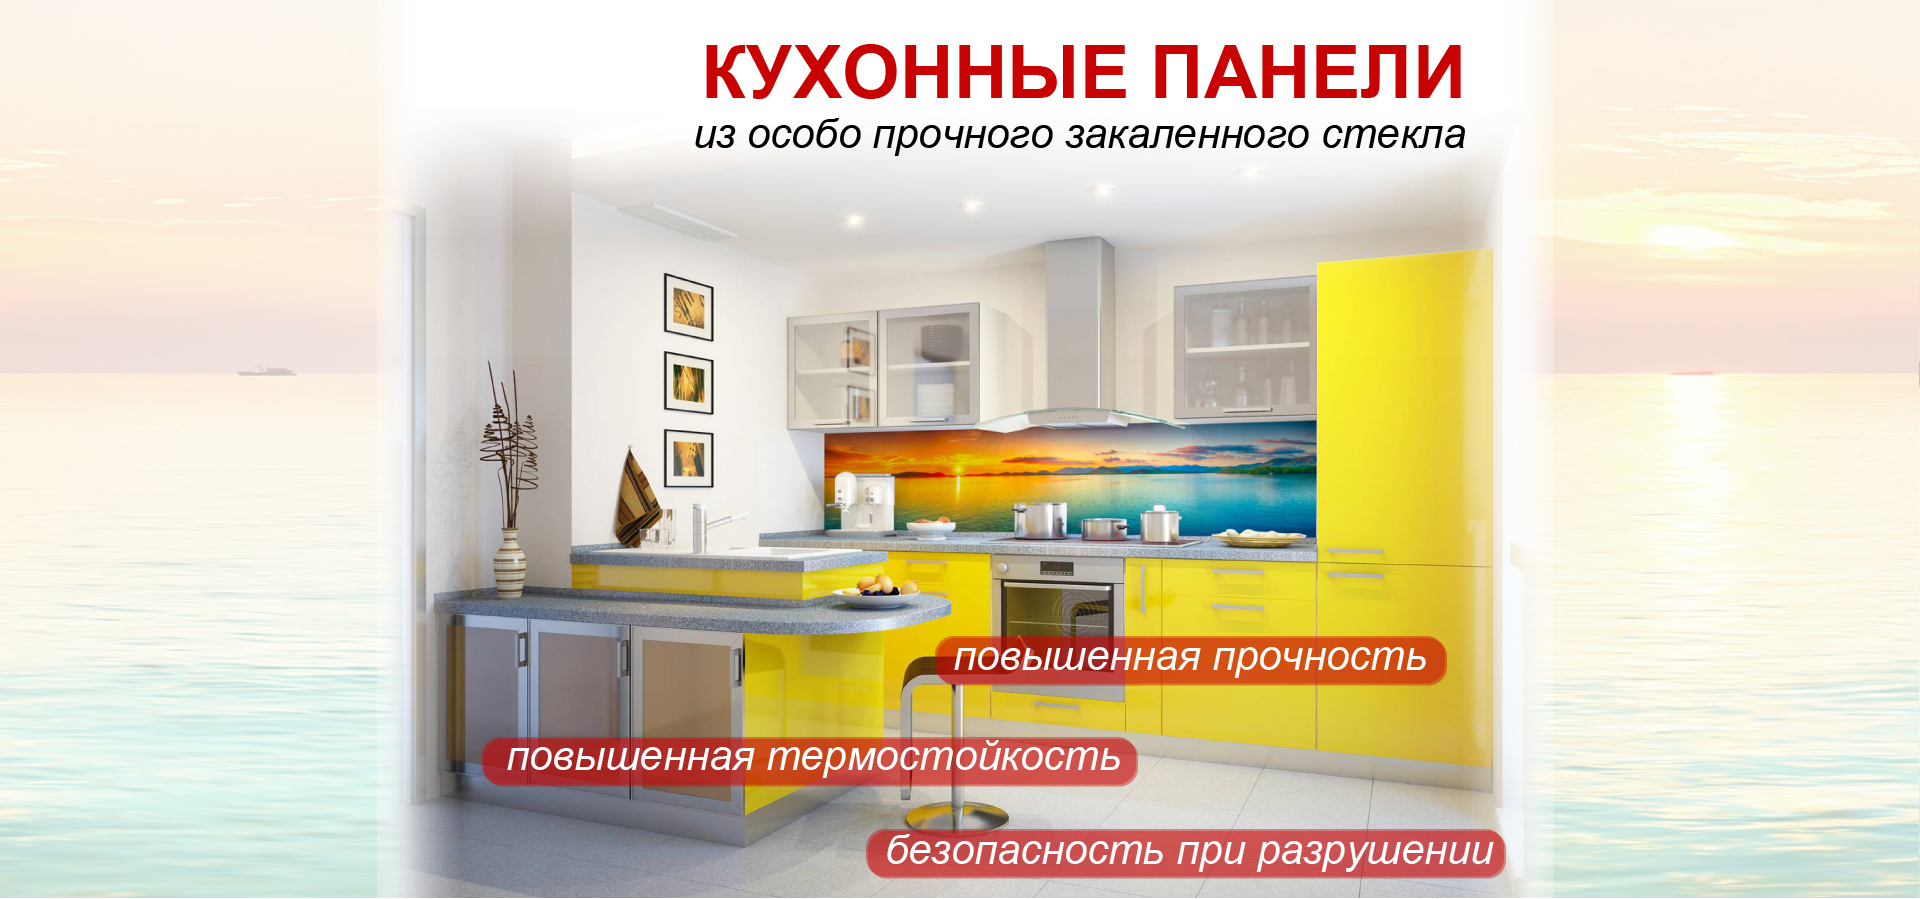
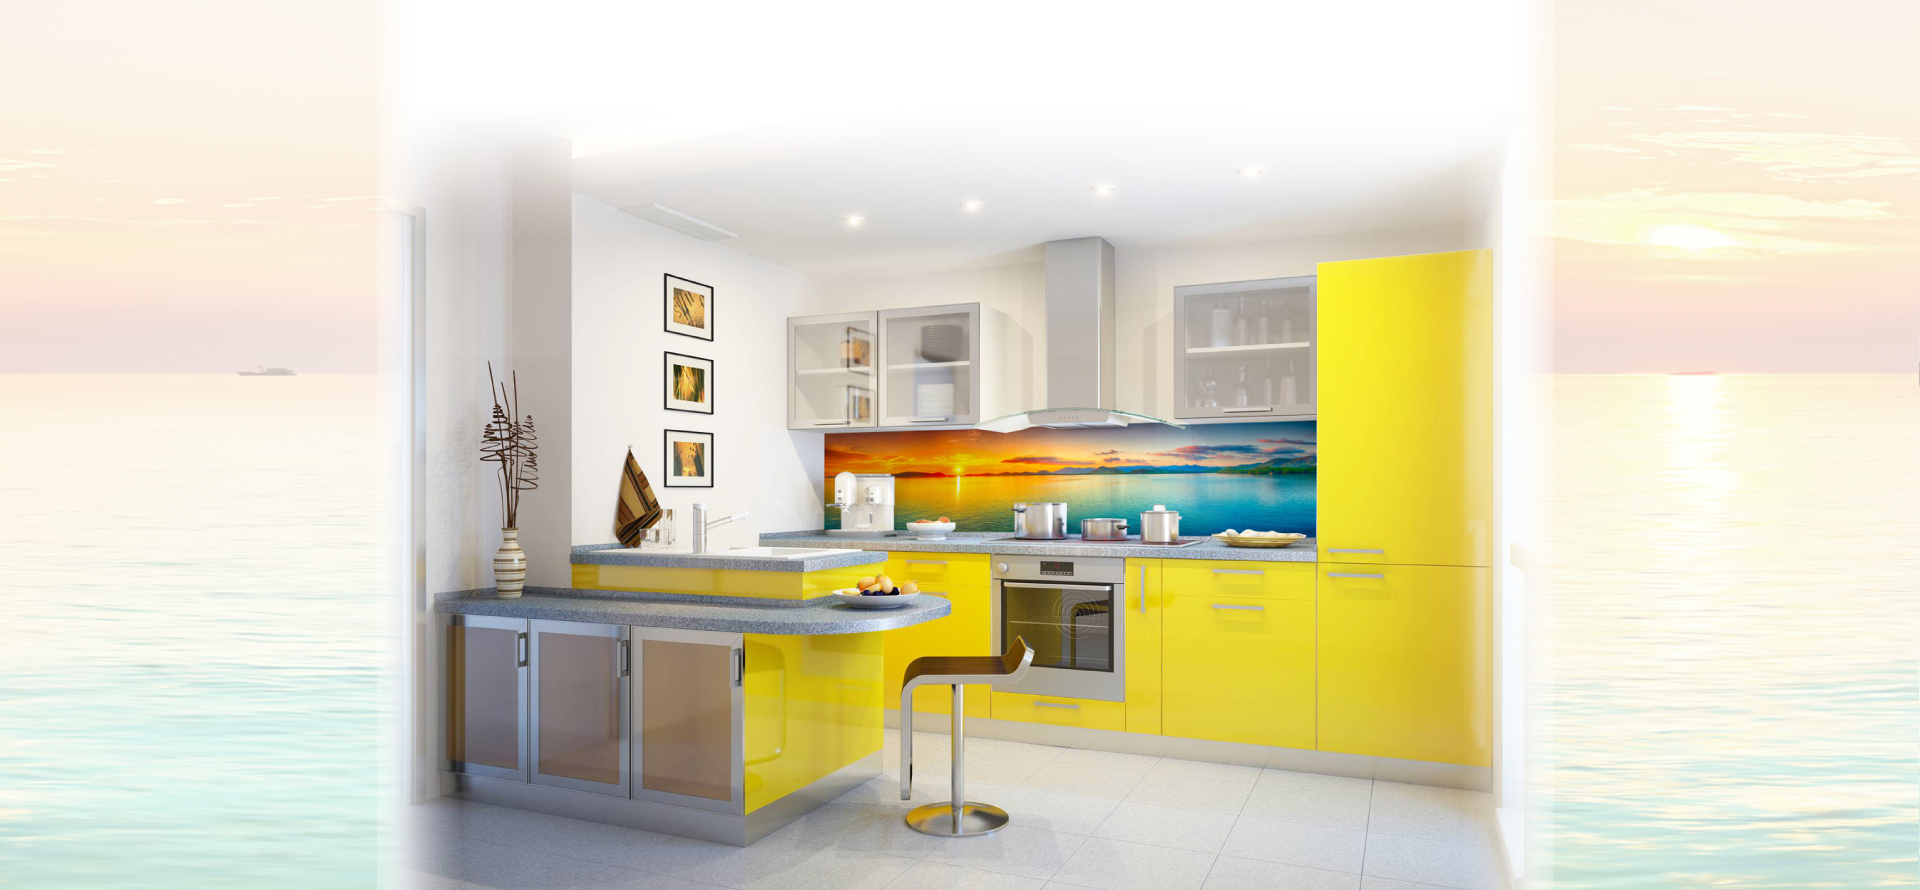
fix(panels): replace image with text blocks

diff --git a/stylesheets/stylesheet.css b/stylesheets/stylesheet.css
@@ -491,6 +491,78 @@ section#instagram {
     margin-bottom: 30px;
 }
 
+section#panels {
+    text-transform: uppercase;
+}
+
+#panels-title {
+    width: 310px;
+    position: absolute;
+    top: 10px;
+    right: 10px;
+}
+
+#panels-title-l1,  #panels-title-l2 {
+    padding-bottom: 0px;
+    padding-top: 0px;
+    margin-top: 0px;
+}
+
+#panels-title-l1 {
+    margin-bottom: 0px;
+    font-size: 2em;
+    color: #B91616;
+}
+
+#panels-title-l2 {
+    margin-bottom: 0px;
+    font-size: 0.85em;
+    color: black;
+    font-style: italic;
+}
+
+#panels-feature1 {
+    position: absolute;
+    right: 150px;
+    margin-top: -120px;
+    color: white;
+    background-color: rgba(230,20,20,0.7);
+    font-style: italic;
+    border-radius: 10px;
+    font-size: 0.9em;
+    font-weight: bold;
+    padding-left: 10px;
+    padding-right: 10px;
+}
+
+#panels-feature2 {
+    position: absolute;
+    right: 250px;
+    margin-top: -80px;
+    color: white;
+    background-color: rgba(230,20,20,0.7);
+    font-style: italic;
+    border-radius: 10px;
+    font-size: 0.9em;
+    font-weight: bold;
+    padding-left: 10px;
+    padding-right: 10px;
+}
+
+#panels-feature3 {
+    position: absolute;
+    right: 10px;
+    margin-top: -40px;
+    color: white;
+    background-color: rgba(230,20,20,0.7);
+    font-style: italic;
+    border-radius: 10px;
+    font-size: 0.9em;
+    font-weight: bold;
+    padding-left: 10px;
+    padding-right: 10px;
+}
+
 #content-wrapper {
   padding-top: 30px;
   border-top: solid 1px #fff;
@@ -677,24 +749,11 @@ form {
   text-indent: 3px;
 }
 
-h4:before {
-  padding-right: 0.3em;
-  margin-left: -2.8em;
-  content: "////";
-  color: #9ddcff;
-}
-
 #main-content h5 {
   margin-bottom: 8px;
   font-size: 14px;
   color: #474747;
   text-indent: 3px;
-}
-h5:before {
-  padding-right: 0.3em;
-  margin-left: -3.2em;
-  content: "/////";
-  color: #9ddcff;
 }
 
 #main-content h6 {

diff --git a/index.html b/index.html
@@ -20,7 +20,7 @@
     <header>
         <div class="inner">
             <h1>Fartuk54</h1>
-            <h3>Кухоныне стеклянные панели с фотопечатью</h3>
+            <h3>Кухонные стеклянные панели с фотопечатью</h3>
             <div class="contacts">
                 <span>8(383)-287-45-75</span>
                 <br/>
@@ -35,6 +35,13 @@
         <div class="inner clearfix">
             <section id="panels">
                 <img src="./images/panels.jpg"/>
+                <div id="panels-title">
+                    <h2 id="panels-title-l1">Кухонные панели</span>
+                    <h4 id="panels-title-l2">из особо прочного закалённого стекла</span>
+                </div>
+                <span id="panels-feature1">повышенная прочность</span>
+                <span id="panels-feature2">повышенная термостойкость</span>
+                <span id="panels-feature3">безопасность при разрушении</span>
             </section>
             <section id="instagram">
                 <a id="instagram-link" href="https://www.instagram.com/fartuk54/" target="_blank">
